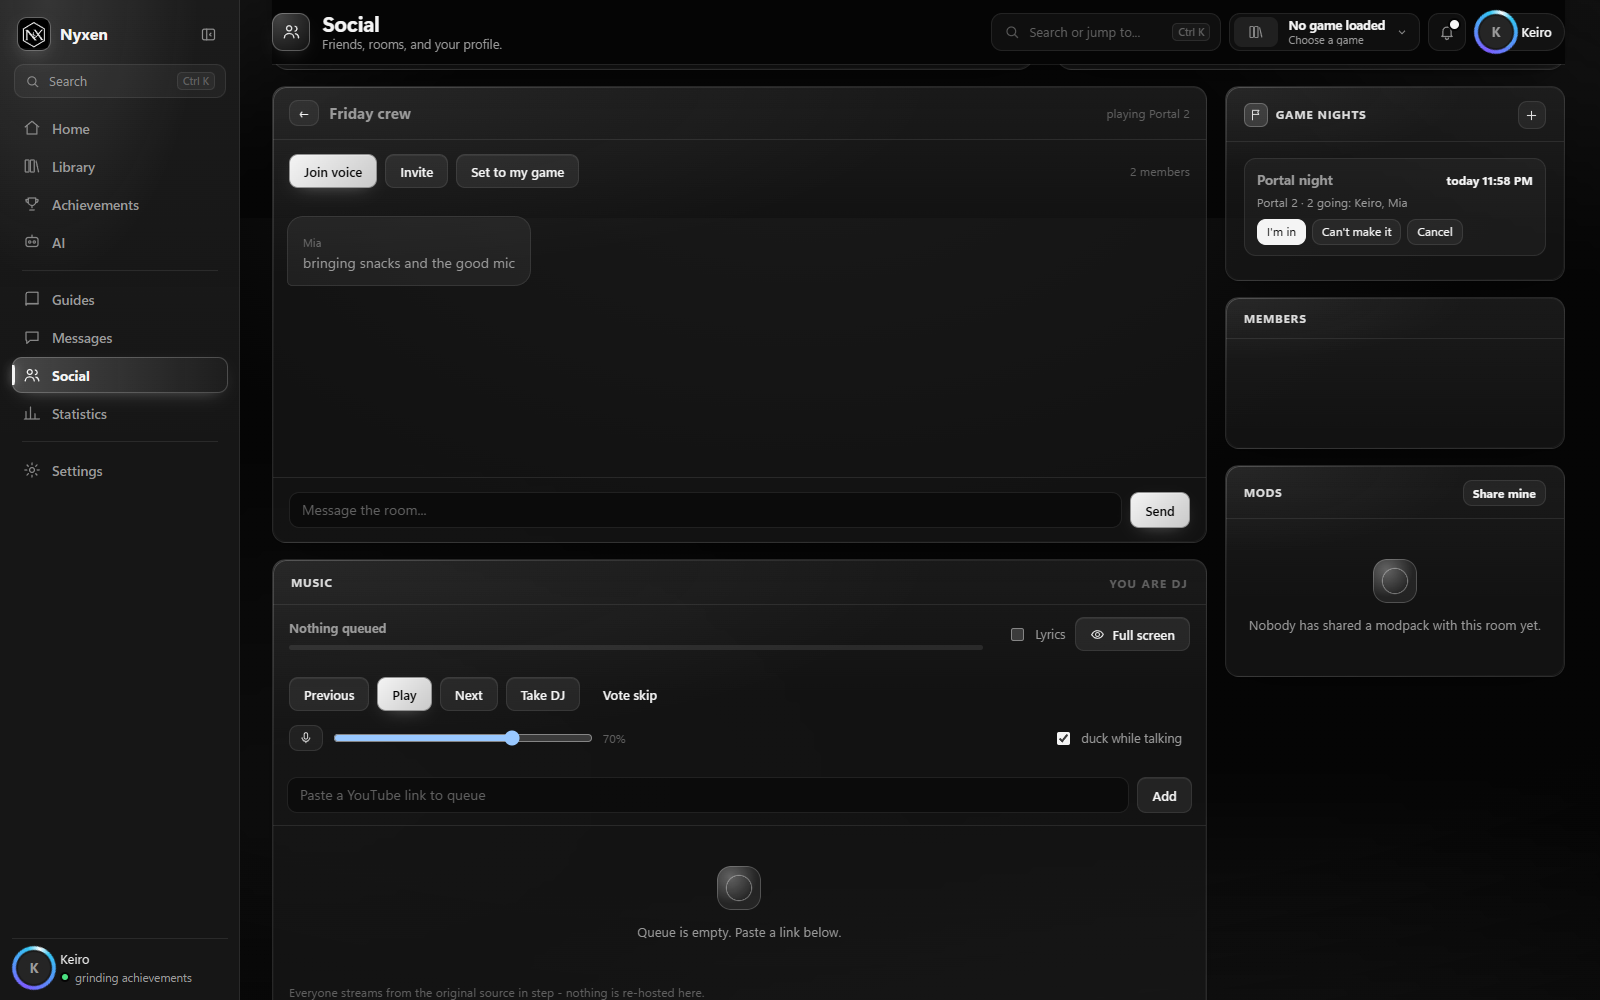
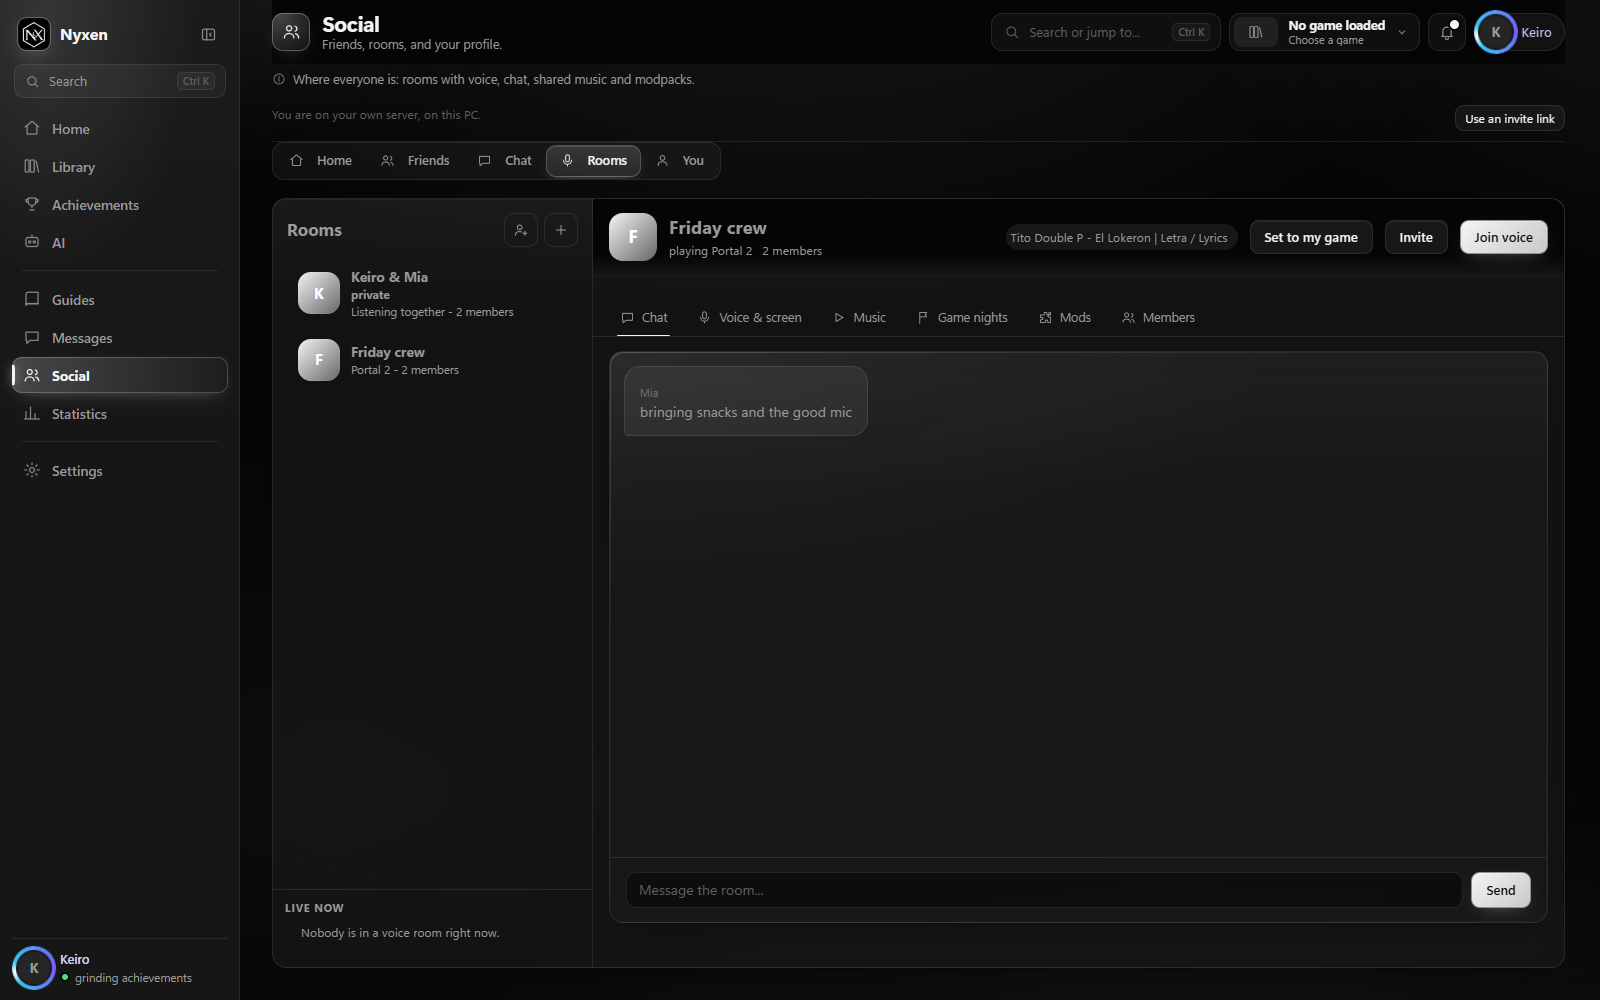
Publish the Nyxen site
Static build for GitHub Pages: the size and SHA-256 of the
installer are measured at build time rather than typed, the
screenshot gallery is generated from the shots folder, and the
download points at the Release rather than a file in the repo.

diff --git a/index.html b/index.html
@@ -430,6 +430,15 @@
     box-shadow:0 0 0 2px #b8a4ff,0 0 10px #b8a4ff}
   .ring.gold{box-shadow:0 0 0 2px #ffd36a,0 0 10px #f5a623}
   .planfoot{margin-top:18px;color:var(--dim);font-size:13.5px;max-width:760px}
+  .plan .terms{display:grid;grid-template-columns:repeat(2,1fr);gap:8px;margin:14px 0 4px}
+  .plan .terms a{display:flex;flex-direction:column;gap:2px;padding:10px 12px;border-radius:12px;text-decoration:none;
+    border:1px solid rgba(255,255,255,.12);color:inherit;transition:border-color .2s,background .2s}
+  .plan .terms a:hover{border-color:rgba(255,255,255,.35);background:rgba(255,255,255,.04)}
+  .plan .terms b{font-size:13px}
+  .plan .terms span{font-size:18px;font-weight:800}
+  .plan .terms i{font-style:normal;font-size:11px;opacity:.7}
+  body.light .plan .terms a{border-color:rgba(0,0,0,.14)}
+  .plan .trialnote{font-size:12px;opacity:.7;line-height:1.5;margin:10px 0 0}
 </style>
 <noscript><style>
   /* The reveals are driven by script: .rise gets .in from an observer, and
@@ -487,7 +496,7 @@
       you already have. Retro achievements. Your friends. One Windows app that
       needs no account to be useful.</p>
     <div class="cta">
-      <a class="btn magnet" href="https://github.com/Kerioxsx/nyxen/releases/download/v1.6.1/NyxenSetup.exe"><span>Download for Windows</span>
+      <a class="btn magnet" href="https://github.com/Kerioxsx/nyxen/releases/download/v1.7.0/NyxenSetup.exe"><span>Download for Windows</span>
         <span class="arw" aria-hidden="true">&rarr;</span></a>
       <a class="btn ghost magnet" href="#look"><span>See it first</span></a>
     </div>
@@ -693,36 +702,33 @@
           <li>Achievements, library, mods and Minecraft</li>
           <li>Friends, messages, rooms, calls and screen share</li>
           <li>Music together and modpack sharing</li>
-          <li>Nyxen AI - no key needed</li>
+          <li>The Nyxen AI assistant</li>
           <li>52 themes, your own accent colour and font</li>
         </ul>
-        <a class="btn ghost" href="https://github.com/Kerioxsx/nyxen/releases/download/v1.6.1/NyxenSetup.exe"><span>Download free</span></a>
+        <a class="btn ghost" href="https://github.com/Kerioxsx/nyxen/releases/download/v1.7.0/NyxenSetup.exe"><span>Download free</span></a>
       </div>
-      <div class="card plan">
-        <div class="pn">Eclipse Monthly</div>
+      <div class="card plan best">
+        <div class="pn">Nyxen Eclipse</div>
         <div class="pp">$8.59<small>/month</small></div>
-        <div class="ps">Cancel whenever you like.</div>
+        <div class="ps">Or pay for longer and pay less - cancel whenever you like.</div>
+        <div class="terms">
+          <a data-checkout="monthly" href="#eclipse-how"><b>1 month</b><span>$8.59</span></a>
+          <a data-checkout="quarterly" href="#eclipse-how"><b>3 months</b><span>$23.99</span><i>save 7%</i></a>
+          <a data-checkout="halfyear" href="#eclipse-how"><b>6 months</b><span>$43.99</span><i>save 15%</i></a>
+          <a data-checkout="annual" href="#eclipse-how"><b>12 months</b><span>$69.99</span><i>save 32%</i></a>
+        </div>
         <ul>
           <li><span class="ring"></span>20 animated rings - fire, neon, galaxy, sakura - or build your own</li>
           <li>Your own theme - any picture or animated GIF</li>
           <li>Voice changer in calls: deep, chipmunk, robot, radio and more</li>
           <li>Name effects, chat bubble styles and a moving profile banner</li>
           <li>Avatar decorations and a profile accent colour</li>
+          <li><span class="ring gold"></span>The gold ring with 12 months</li>
           <li>Everything in Free</li>
         </ul>
-        <a class="btn ghost" data-checkout="monthly" href="#eclipse-how"><span>Get Monthly</span></a>
-      </div>
-      <div class="card plan best">
-        <div class="pn">Eclipse Yearly</div>
-        <div class="pp">$69.99<small>/year</small></div>
-        <div class="ps"><b>$5.83 a month.</b> Save 32% - almost four months free.</div>
-        <ul>
-          <li>Everything in Monthly</li>
-          <li><span class="ring gold"></span>The gold ring - yearly members only</li>
-          <li>One payment for the whole year</li>
-          <li>New Eclipse features as they land</li>
-        </ul>
-        <a class="btn" data-checkout="annual" href="#eclipse-how"><span>Get Yearly</span></a>
+        <a class="btn" data-checkout="trial" href="#eclipse-how"><span>Start your 7-day free trial</span></a>
+        <p class="trialnote">A credit or debit card is needed to start the trial. Nothing is charged for
+          7 days, and cancelling before then costs nothing. One free week per account.</p>
       </div>
     </div>
     <p class="planfoot rise" id="eclipse-how">Online checkout is not open yet, so nothing can be charged here.
@@ -766,11 +772,11 @@
     <p class="eyebrow rise">Download</p>
     <h2 class="rise">One file. Open it, click Install, and it launches.</h2>
     <div class="cta rise" style="justify-content:flex-start">
-      <a class="btn magnet" href="https://github.com/Kerioxsx/nyxen/releases/download/v1.6.1/NyxenSetup.exe"><span>NyxenSetup.exe &middot; 29.4 MB</span>
+      <a class="btn magnet" href="https://github.com/Kerioxsx/nyxen/releases/download/v1.7.0/NyxenSetup.exe"><span>NyxenSetup.exe &middot; 29.4 MB</span>
         <span class="arw" aria-hidden="true">&darr;</span></a>
       <a class="btn ghost magnet" href="sha256.txt"><span>Checksum</span></a>
     </div>
-    <p class="meta">SHA-256 <code>ca5e8e461467063f1cc45f2766cb9099b2e08a4e3e07c5b642f734d85c1d8926</code><br>
+    <p class="meta">SHA-256 <code>15e31a465fef7de41d4e788492900a19ec896b31a67d186cfbd0d7f4cc883ec0</code><br>
       Check it with <code>certutil -hashfile NyxenSetup.exe SHA256</code> —
       built into Windows, nothing to install.</p>
     <div class="note rise" style="margin-top:22px">
@@ -786,7 +792,7 @@
       <img src="logo.svg" alt="" width="26" height="26"></span>
     <span>Nyxen 1.6.1 — made by Antonio</span>
     <a href="terms.html">Terms</a>
-    <a href="https://github.com/Kerioxsx/nyxen/releases/download/v1.6.1/NyxenSetup.exe">Download</a>
+    <a href="https://github.com/Kerioxsx/nyxen/releases/download/v1.7.0/NyxenSetup.exe">Download</a>
     <span class="right">Not affiliated with Valve, Mojang, Microsoft, Modrinth,
       Thunderstore, GameBanana, RetroAchievements or libretro.</span>
   </footer>
@@ -801,7 +807,7 @@
 <script>
 /* Checkout links for Nyxen Eclipse. Empty until there is a payment account;
    paste the two links here and both buttons start selling. */
-const ECLIPSE_CHECKOUT = {monthly: "", annual: ""};
+const ECLIPSE_CHECKOUT = {monthly: "", quarterly: "", halfyear: "", annual: "", trial: ""};
 document.querySelectorAll("[data-checkout]").forEach(a => {
   const url = ECLIPSE_CHECKOUT[a.dataset.checkout];
   if(url){ a.href = url; a.target = "_blank"; a.rel = "noopener"; }

diff --git a/terms.html b/terms.html
@@ -98,7 +98,7 @@
   </a>
   <nav>
     <a href="index.html">Home</a>
-    <a href="https://github.com/Kerioxsx/nyxen/releases/download/v1.6.1/NyxenSetup.exe">Download</a>
+    <a href="https://github.com/Kerioxsx/nyxen/releases/download/v1.7.0/NyxenSetup.exe">Download</a>
   </nav>
 </header>
 
@@ -198,13 +198,16 @@ parts, their terms and privacy policies apply as well as these:</p>
     for the full-screen music player.</li>
   <li><strong>YouTube and SoundCloud</strong> — room music plays from their
     own players, under their terms; nothing is downloaded or re-hosted.</li>
+  <li><strong>Epic Games Store, GamerPower and CheapShark</strong> — the free
+    games and deals on Home. Claiming or buying happens on the store's own
+    site, under its terms.</li>
   <li><strong>Microsoft and Mojang</strong> — if you sign in for Minecraft
     skins. Nyxen never sees your password; sign-in happens on Microsoft's own
     page.</li>
   <li><strong>RetroAchievements</strong> — for retro achievement data.</li>
   <li><strong>libretro</strong> — for the retro databases, cheats and box art.</li>
-  <li><strong>pollinations.ai</strong> — the free AI, used only when you have
-    no AI of your own set up. You can switch it off in Settings.</li>
+  <li><strong>pollinations.ai</strong> — answers Nyxen AI questions when you
+    have no AI of your own set up. You can switch it off in Settings.</li>
   <li><strong>Your AI provider</strong> — only if you set one up.</li>
 </ul>
 <p>If one of them changes or goes away, the part of Nyxen that used it stops
@@ -251,17 +254,22 @@ setting decides who can see it, and it is removed with your account.</p>
 server keeps only a fingerprint of it, the same way it keeps your password.
 Anyone holding your username and that key can set a new password, so keep it
 somewhere safe.</p>
-<p><strong>Nyxen Eclipse</strong> is an optional membership. The app does not
-take payments; a membership is given by whoever runs the server, directly or
-with a one-time code, and they can end it.</p>
+<p><strong>Nyxen Eclipse</strong> is an optional membership, for 1, 3, 6 or 12
+months. The app itself does not take payments. When online checkout opens it is
+run by a payment provider, under their terms: a <strong>7-day free trial</strong>
+needs a credit or debit card at checkout, nothing is charged during those 7 days,
+cancelling before they end costs nothing, and after that the membership renews
+at the price shown until you cancel. One free trial per account. Until checkout
+opens, a membership is given by whoever runs the server, directly or with a
+one-time code, and they can end it.</p>
 <p>If you use a server someone else runs, they may remove accounts or content,
 and they are under no obligation to keep it running or to keep backups.</p>
 
 <h2 id="ai">8. The assistant</h2>
-<p>The assistant works without any setup through <strong>Nyxen Free AI</strong>,
+<p>The assistant works without any setup through <strong>Nyxen AI</strong>,
 which sends your question to pollinations.ai. If you run Ollama on your PC, or
-add a key of your own, that is used instead and the free service is not
-contacted. Free AI can be switched off in Settings. When you use it:</p>
+add a key of your own, that is used instead and pollinations.ai is not
+contacted. Nyxen AI can be switched off in Settings. When you use it:</p>
 <ul>
   <li>What you type, and any screenshot you explicitly ask it to look at, is
     sent to the provider you chose. Their terms apply to that.</li>
@@ -302,7 +310,7 @@ position for a free project made by one person.</p>
 <footer>
   <span>Nyxen 1.6.1</span>
   <a href="index.html">Home</a>
-  <a href="https://github.com/Kerioxsx/nyxen/releases/download/v1.6.1/NyxenSetup.exe">Download</a>
+  <a href="https://github.com/Kerioxsx/nyxen/releases/download/v1.7.0/NyxenSetup.exe">Download</a>
   <a href="sha256.txt">Checksum</a>
 </footer>
 
